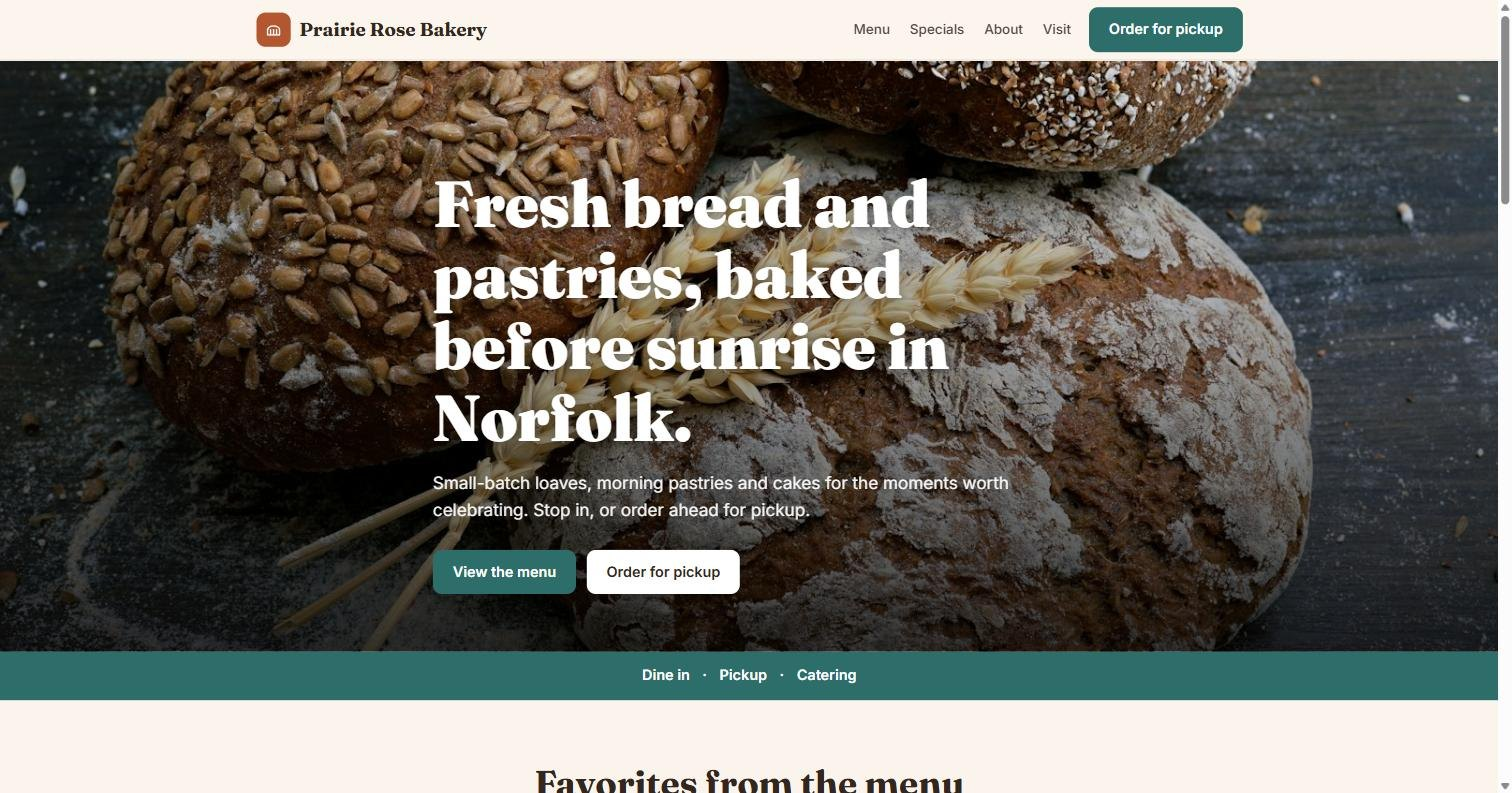
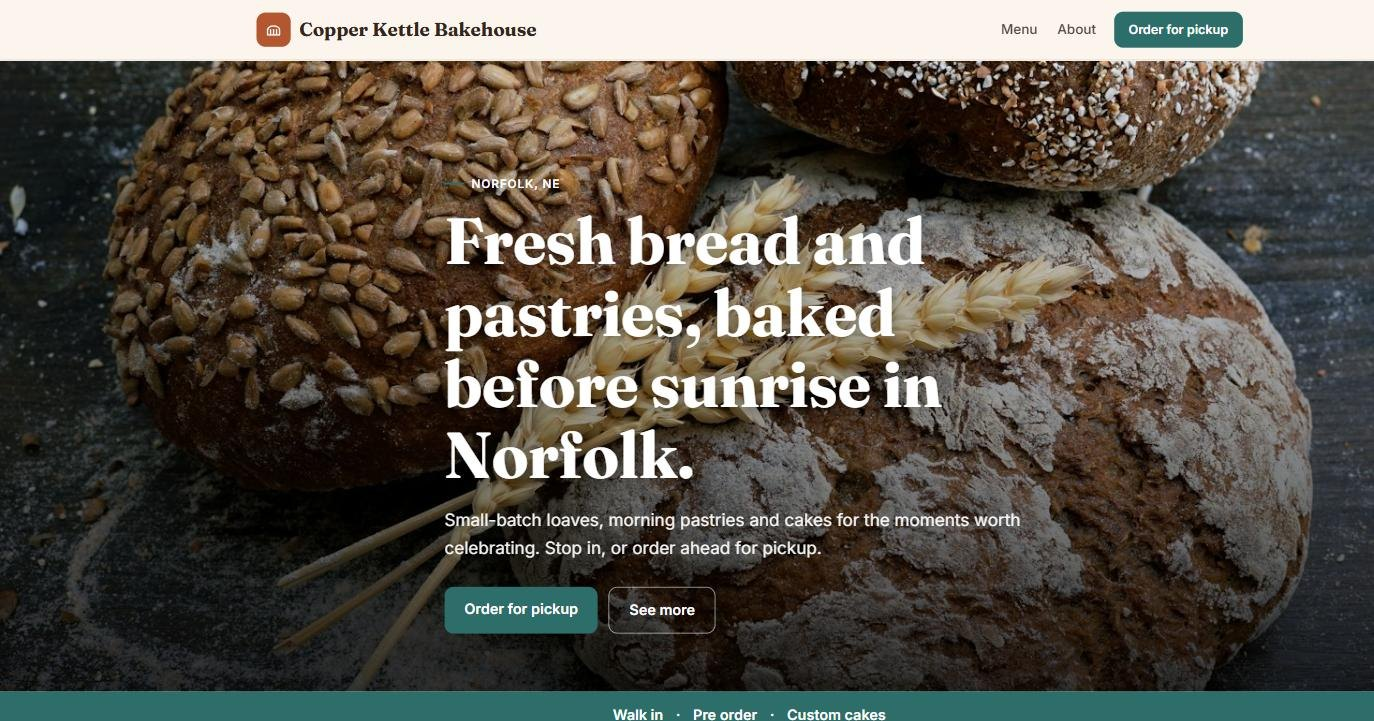
Site update Mon 09/07/2026 21:48:05.94

diff --git a/index.html b/index.html
@@ -40,8 +40,8 @@
  <div class="fine rv">Usually a preview by the next morning. If you don't want it, you owe nothing.</div>
  </div>
  <div class="stage" id="stage">
- <a class="shot" href="https://demos.mydevkits.com/sample-bakery/?demo=1"><img src="img/shot_bakery.jpg" alt="A sample site: Prairie Rose Bakery" fetchpriority="high"><span class="open">Open the site &rarr;</span></a>
- <div class="tag">Prairie Rose Bakery &middot; a sample site, built in a day &middot; click to explore it</div>
+ <a class="shot" href="https://demos.mydevkits.com/sample-bakery/?demo=1"><img src="img/shot_bakery.jpg" alt="A sample site: Copper Kettle Bakehouse" fetchpriority="high"><span class="open">Open the site &rarr;</span></a>
+ <div class="tag">Copper Kettle Bakehouse &middot; a sample site, built in a day &middot; click to explore it</div>
  </div>
 </header>
 
@@ -53,17 +53,17 @@
  <p class="lead" style="margin:18px auto 0;text-align:center">A layout designed for what you do, in your colors, with your photos. Not a template with your name typed in.</p>
  </div>
  <div class="track" aria-hidden="false">
- <a class="card" href="https://demos.mydevkits.com/sample-bakery/?demo=1"><div class="bar"><i></i><i></i><i></i><span>prairierosebakery.com</span></div><img src="img/shot_bakery.jpg" alt="Sample bakery site"><figcaption><b>Prairie Rose Bakery</b>Menu with prices, order for pickup, hours up top</figcaption><span class="open">Open the site &rarr;</span></a>
- <a class="card" href="https://demos.mydevkits.com/sample-salon/?demo=1"><div class="bar"><i></i><i></i><i></i><span>goldenhoursalon.com</span></div><img src="img/shot_salon.jpg" alt="Sample salon site"><figcaption><b>Golden Hour Salon</b>Service menu, book a visit, what to expect</figcaption><span class="open">Open the site &rarr;</span></a>
- <a class="card" href="https://demos.mydevkits.com/sample-grill/?demo=1"><div class="bar"><i></i><i></i><i></i><span>cottonwoodgrill.com</span></div><img src="img/shot_grill.jpg" alt="Sample grill site"><figcaption><b>Cottonwood Grill</b>Specials, catering, a private room, dine in or pickup</figcaption><span class="open">Open the site &rarr;</span></a>
- <a class="card" href="https://demos.mydevkits.com/sample-plumbing/?demo=1"><div class="bar"><i></i><i></i><i></i><span>tworiversplumbing.com</span></div><img src="img/shot_plumbing.jpg" alt="Sample plumbing site"><figcaption><b>Two Rivers Plumbing</b>Request an estimate right on the first screen</figcaption><span class="open">Open the site &rarr;</span></a>
- <a class="card" href="https://demos.mydevkits.com/sample-boutique/?demo=1"><div class="bar"><i></i><i></i><i></i><span>mainstreetmercantile.com</span></div><img src="img/shot_boutique.jpg" alt="Sample shop site"><figcaption><b>Main Street Mercantile</b>Shop online, this week's arrivals, visit the store</figcaption><span class="open">Open the site &rarr;</span></a>
+ <a class="card" href="https://demos.mydevkits.com/sample-bakery/?demo=1"><div class="bar"><i></i><i></i><i></i><span>copperkettlebakehouse.com</span></div><img src="img/shot_bakery.jpg" alt="Sample bakery site"><figcaption><b>Copper Kettle Bakehouse</b>Menu with prices, order for pickup, hours up top</figcaption><span class="open">Open the site &rarr;</span></a>
+ <a class="card" href="https://demos.mydevkits.com/sample-salon/?demo=1"><div class="bar"><i></i><i></i><i></i><span>tallgrasscuts.com</span></div><img src="img/shot_salon.jpg" alt="Sample salon site"><figcaption><b>Tallgrass Cuts</b>Service menu, book a visit, what to expect</figcaption><span class="open">Open the site &rarr;</span></a>
+ <a class="card" href="https://demos.mydevkits.com/sample-grill/?demo=1"><div class="bar"><i></i><i></i><i></i><span>twoforksgrill.com</span></div><img src="img/shot_grill.jpg" alt="Sample grill site"><figcaption><b>Two Forks Grill</b>Specials, catering, a private room, dine in or pickup</figcaption><span class="open">Open the site &rarr;</span></a>
+ <a class="card" href="https://demos.mydevkits.com/sample-plumbing/?demo=1"><div class="bar"><i></i><i></i><i></i><span>redwaterplumbing.com</span></div><img src="img/shot_plumbing.jpg" alt="Sample plumbing site"><figcaption><b>Redwater Plumbing</b>Request an estimate right on the first screen</figcaption><span class="open">Open the site &rarr;</span></a>
+ <a class="card" href="https://demos.mydevkits.com/sample-boutique/?demo=1"><div class="bar"><i></i><i></i><i></i><span>prairieandpinemercantile.com</span></div><img src="img/shot_boutique.jpg" alt="Sample shop site"><figcaption><b>Prairie &amp; Pine Mercantile</b>Shop online, this week's arrivals, visit the store</figcaption><span class="open">Open the site &rarr;</span></a>
  <!-- repeated for the loop -->
- <a class="card" href="https://demos.mydevkits.com/sample-bakery/?demo=1"><div class="bar"><i></i><i></i><i></i><span>prairierosebakery.com</span></div><img src="img/shot_bakery.jpg" alt=""><figcaption><b>Prairie Rose Bakery</b>Menu with prices, order for pickup, hours up top</figcaption><span class="open">Open the site &rarr;</span></a>
- <a class="card" href="https://demos.mydevkits.com/sample-salon/?demo=1"><div class="bar"><i></i><i></i><i></i><span>goldenhoursalon.com</span></div><img src="img/shot_salon.jpg" alt=""><figcaption><b>Golden Hour Salon</b>Service menu, book a visit, what to expect</figcaption><span class="open">Open the site &rarr;</span></a>
- <a class="card" href="https://demos.mydevkits.com/sample-grill/?demo=1"><div class="bar"><i></i><i></i><i></i><span>cottonwoodgrill.com</span></div><img src="img/shot_grill.jpg" alt=""><figcaption><b>Cottonwood Grill</b>Specials, catering, a private room, dine in or pickup</figcaption><span class="open">Open the site &rarr;</span></a>
- <a class="card" href="https://demos.mydevkits.com/sample-plumbing/?demo=1"><div class="bar"><i></i><i></i><i></i><span>tworiversplumbing.com</span></div><img src="img/shot_plumbing.jpg" alt=""><figcaption><b>Two Rivers Plumbing</b>Request an estimate right on the first screen</figcaption><span class="open">Open the site &rarr;</span></a>
- <a class="card" href="https://demos.mydevkits.com/sample-boutique/?demo=1"><div class="bar"><i></i><i></i><i></i><span>mainstreetmercantile.com</span></div><img src="img/shot_boutique.jpg" alt=""><figcaption><b>Main Street Mercantile</b>Shop online, this week's arrivals, visit the store</figcaption><span class="open">Open the site &rarr;</span></a>
+ <a class="card" href="https://demos.mydevkits.com/sample-bakery/?demo=1"><div class="bar"><i></i><i></i><i></i><span>copperkettlebakehouse.com</span></div><img src="img/shot_bakery.jpg" alt=""><figcaption><b>Copper Kettle Bakehouse</b>Menu with prices, order for pickup, hours up top</figcaption><span class="open">Open the site &rarr;</span></a>
+ <a class="card" href="https://demos.mydevkits.com/sample-salon/?demo=1"><div class="bar"><i></i><i></i><i></i><span>tallgrasscuts.com</span></div><img src="img/shot_salon.jpg" alt=""><figcaption><b>Tallgrass Cuts</b>Service menu, book a visit, what to expect</figcaption><span class="open">Open the site &rarr;</span></a>
+ <a class="card" href="https://demos.mydevkits.com/sample-grill/?demo=1"><div class="bar"><i></i><i></i><i></i><span>twoforksgrill.com</span></div><img src="img/shot_grill.jpg" alt=""><figcaption><b>Two Forks Grill</b>Specials, catering, a private room, dine in or pickup</figcaption><span class="open">Open the site &rarr;</span></a>
+ <a class="card" href="https://demos.mydevkits.com/sample-plumbing/?demo=1"><div class="bar"><i></i><i></i><i></i><span>redwaterplumbing.com</span></div><img src="img/shot_plumbing.jpg" alt=""><figcaption><b>Redwater Plumbing</b>Request an estimate right on the first screen</figcaption><span class="open">Open the site &rarr;</span></a>
+ <a class="card" href="https://demos.mydevkits.com/sample-boutique/?demo=1"><div class="bar"><i></i><i></i><i></i><span>prairieandpinemercantile.com</span></div><img src="img/shot_boutique.jpg" alt=""><figcaption><b>Prairie &amp; Pine Mercantile</b>Shop online, this week's arrivals, visit the store</figcaption><span class="open">Open the site &rarr;</span></a>
  </div>
  <p style="text-align:center;font-size:13.5px;color:var(--light-muted);margin-top:26px">Click any of them and look around; they are complete, working sites for made-up businesses, built with our tools. Yours gets your name, your photos, your colors.</p>
 </section>
@@ -80,7 +80,7 @@
  <div class="phone"><div class="island"></div><div class="screen">
  <iframe src="https://demos.mydevkits.com/sample-bakery/?v=2&embed=1" title="A sample site on a phone" loading="lazy" tabindex="-1"></iframe>
  <div class="app" data-app="booth">
- <h4>Photo booth</h4><div class="sm">Prairie Rose Bakery</div>
+ <h4>Photo booth</h4><div class="sm">Copper Kettle Bakehouse</div>
  <div class="tile"><span>📷</span><b>Take a photo</b><span class="pill">from the phone</span></div>
  <div class="ph"></div>
  <div class="tile"><span>✏</span><span style="color:var(--light-ink)">Cinnamon rolls, out at 7</span></div>
@@ -88,7 +88,7 @@
  <div class="sm" style="margin-top:12px;text-align:center">Live in about a minute. Newest first, with the date.</div>
  </div>
  <div class="app" data-app="products">
- <h4>Products</h4><div class="sm">Main Street Mercantile</div>
+ <h4>Products</h4><div class="sm">Prairie &amp; Pine Mercantile</div>
  <div class="tile"><span>📷</span><b>Take a photo</b><span class="pill">from the phone</span></div>
  <div class="tile"><span>🪑</span><div><b>Oak rocking chair</b><br><span>$45 · one of a kind</span></div><span class="pill">1 left</span></div>
  <div class="tile"><span>🧣</span><div><b>Wool scarf</b><br><span>$28</span></div><span class="pill dark">Sold</span></div>

diff --git a/see-your-site.html b/see-your-site.html
@@ -63,17 +63,17 @@
  <p class="lead" style="margin:18px auto 0;text-align:center">A layout designed for what you do, in your colors, with your photos. Not a template with your name typed in.</p>
  </div>
  <div class="track" aria-hidden="false">
- <a class="card" href="https://demos.mydevkits.com/sample-bakery/?demo=1"><div class="bar"><i></i><i></i><i></i><span>prairierosebakery.com</span></div><img src="img/shot_bakery.jpg" alt="Sample bakery site"><figcaption><b>Prairie Rose Bakery</b>Menu with prices, order for pickup, hours up top</figcaption><span class="open">Open the site &rarr;</span></a>
- <a class="card" href="https://demos.mydevkits.com/sample-salon/?demo=1"><div class="bar"><i></i><i></i><i></i><span>goldenhoursalon.com</span></div><img src="img/shot_salon.jpg" alt="Sample salon site"><figcaption><b>Golden Hour Salon</b>Service menu, book a visit, what to expect</figcaption><span class="open">Open the site &rarr;</span></a>
- <a class="card" href="https://demos.mydevkits.com/sample-grill/?demo=1"><div class="bar"><i></i><i></i><i></i><span>cottonwoodgrill.com</span></div><img src="img/shot_grill.jpg" alt="Sample grill site"><figcaption><b>Cottonwood Grill</b>Specials, catering, a private room, dine in or pickup</figcaption><span class="open">Open the site &rarr;</span></a>
- <a class="card" href="https://demos.mydevkits.com/sample-plumbing/?demo=1"><div class="bar"><i></i><i></i><i></i><span>tworiversplumbing.com</span></div><img src="img/shot_plumbing.jpg" alt="Sample plumbing site"><figcaption><b>Two Rivers Plumbing</b>Request an estimate right on the first screen</figcaption><span class="open">Open the site &rarr;</span></a>
- <a class="card" href="https://demos.mydevkits.com/sample-boutique/?demo=1"><div class="bar"><i></i><i></i><i></i><span>mainstreetmercantile.com</span></div><img src="img/shot_boutique.jpg" alt="Sample shop site"><figcaption><b>Main Street Mercantile</b>Shop online, this week's arrivals, visit the store</figcaption><span class="open">Open the site &rarr;</span></a>
+ <a class="card" href="https://demos.mydevkits.com/sample-bakery/?demo=1"><div class="bar"><i></i><i></i><i></i><span>copperkettlebakehouse.com</span></div><img src="img/shot_bakery.jpg" alt="Sample bakery site"><figcaption><b>Copper Kettle Bakehouse</b>Menu with prices, order for pickup, hours up top</figcaption><span class="open">Open the site &rarr;</span></a>
+ <a class="card" href="https://demos.mydevkits.com/sample-salon/?demo=1"><div class="bar"><i></i><i></i><i></i><span>tallgrasscuts.com</span></div><img src="img/shot_salon.jpg" alt="Sample salon site"><figcaption><b>Tallgrass Cuts</b>Service menu, book a visit, what to expect</figcaption><span class="open">Open the site &rarr;</span></a>
+ <a class="card" href="https://demos.mydevkits.com/sample-grill/?demo=1"><div class="bar"><i></i><i></i><i></i><span>twoforksgrill.com</span></div><img src="img/shot_grill.jpg" alt="Sample grill site"><figcaption><b>Two Forks Grill</b>Specials, catering, a private room, dine in or pickup</figcaption><span class="open">Open the site &rarr;</span></a>
+ <a class="card" href="https://demos.mydevkits.com/sample-plumbing/?demo=1"><div class="bar"><i></i><i></i><i></i><span>redwaterplumbing.com</span></div><img src="img/shot_plumbing.jpg" alt="Sample plumbing site"><figcaption><b>Redwater Plumbing</b>Request an estimate right on the first screen</figcaption><span class="open">Open the site &rarr;</span></a>
+ <a class="card" href="https://demos.mydevkits.com/sample-boutique/?demo=1"><div class="bar"><i></i><i></i><i></i><span>prairieandpinemercantile.com</span></div><img src="img/shot_boutique.jpg" alt="Sample shop site"><figcaption><b>Prairie &amp; Pine Mercantile</b>Shop online, this week's arrivals, visit the store</figcaption><span class="open">Open the site &rarr;</span></a>
  <!-- repeated for the loop -->
- <a class="card" href="https://demos.mydevkits.com/sample-bakery/?demo=1"><div class="bar"><i></i><i></i><i></i><span>prairierosebakery.com</span></div><img src="img/shot_bakery.jpg" alt=""><figcaption><b>Prairie Rose Bakery</b>Menu with prices, order for pickup, hours up top</figcaption><span class="open">Open the site &rarr;</span></a>
- <a class="card" href="https://demos.mydevkits.com/sample-salon/?demo=1"><div class="bar"><i></i><i></i><i></i><span>goldenhoursalon.com</span></div><img src="img/shot_salon.jpg" alt=""><figcaption><b>Golden Hour Salon</b>Service menu, book a visit, what to expect</figcaption><span class="open">Open the site &rarr;</span></a>
- <a class="card" href="https://demos.mydevkits.com/sample-grill/?demo=1"><div class="bar"><i></i><i></i><i></i><span>cottonwoodgrill.com</span></div><img src="img/shot_grill.jpg" alt=""><figcaption><b>Cottonwood Grill</b>Specials, catering, a private room, dine in or pickup</figcaption><span class="open">Open the site &rarr;</span></a>
- <a class="card" href="https://demos.mydevkits.com/sample-plumbing/?demo=1"><div class="bar"><i></i><i></i><i></i><span>tworiversplumbing.com</span></div><img src="img/shot_plumbing.jpg" alt=""><figcaption><b>Two Rivers Plumbing</b>Request an estimate right on the first screen</figcaption><span class="open">Open the site &rarr;</span></a>
- <a class="card" href="https://demos.mydevkits.com/sample-boutique/?demo=1"><div class="bar"><i></i><i></i><i></i><span>mainstreetmercantile.com</span></div><img src="img/shot_boutique.jpg" alt=""><figcaption><b>Main Street Mercantile</b>Shop online, this week's arrivals, visit the store</figcaption><span class="open">Open the site &rarr;</span></a>
+ <a class="card" href="https://demos.mydevkits.com/sample-bakery/?demo=1"><div class="bar"><i></i><i></i><i></i><span>copperkettlebakehouse.com</span></div><img src="img/shot_bakery.jpg" alt=""><figcaption><b>Copper Kettle Bakehouse</b>Menu with prices, order for pickup, hours up top</figcaption><span class="open">Open the site &rarr;</span></a>
+ <a class="card" href="https://demos.mydevkits.com/sample-salon/?demo=1"><div class="bar"><i></i><i></i><i></i><span>tallgrasscuts.com</span></div><img src="img/shot_salon.jpg" alt=""><figcaption><b>Tallgrass Cuts</b>Service menu, book a visit, what to expect</figcaption><span class="open">Open the site &rarr;</span></a>
+ <a class="card" href="https://demos.mydevkits.com/sample-grill/?demo=1"><div class="bar"><i></i><i></i><i></i><span>twoforksgrill.com</span></div><img src="img/shot_grill.jpg" alt=""><figcaption><b>Two Forks Grill</b>Specials, catering, a private room, dine in or pickup</figcaption><span class="open">Open the site &rarr;</span></a>
+ <a class="card" href="https://demos.mydevkits.com/sample-plumbing/?demo=1"><div class="bar"><i></i><i></i><i></i><span>redwaterplumbing.com</span></div><img src="img/shot_plumbing.jpg" alt=""><figcaption><b>Redwater Plumbing</b>Request an estimate right on the first screen</figcaption><span class="open">Open the site &rarr;</span></a>
+ <a class="card" href="https://demos.mydevkits.com/sample-boutique/?demo=1"><div class="bar"><i></i><i></i><i></i><span>prairieandpinemercantile.com</span></div><img src="img/shot_boutique.jpg" alt=""><figcaption><b>Prairie &amp; Pine Mercantile</b>Shop online, this week's arrivals, visit the store</figcaption><span class="open">Open the site &rarr;</span></a>
  </div>
  <p style="text-align:center;font-size:13.5px;color:var(--light-muted);margin-top:26px">Click any of them and look around; they are complete, working sites for made-up businesses, built with our tools. Yours gets your name, your photos, your colors.</p>
 </section>
@@ -90,7 +90,7 @@
  <div class="phone"><div class="island"></div><div class="screen">
  <iframe src="https://demos.mydevkits.com/sample-bakery/?v=2&embed=1" title="A sample site on a phone" loading="lazy" tabindex="-1"></iframe>
  <div class="app" data-app="booth">
- <h4>Photo booth</h4><div class="sm">Prairie Rose Bakery</div>
+ <h4>Photo booth</h4><div class="sm">Copper Kettle Bakehouse</div>
  <div class="tile"><span>📷</span><b>Take a photo</b><span class="pill">from the phone</span></div>
  <div class="ph"></div>
  <div class="tile"><span>✏</span><span style="color:var(--light-ink)">Cinnamon rolls, out at 7</span></div>
@@ -98,7 +98,7 @@
  <div class="sm" style="margin-top:12px;text-align:center">Live in about a minute. Newest first, with the date.</div>
  </div>
  <div class="app" data-app="products">
- <h4>Products</h4><div class="sm">Main Street Mercantile</div>
+ <h4>Products</h4><div class="sm">Prairie &amp; Pine Mercantile</div>
  <div class="tile"><span>📷</span><b>Take a photo</b><span class="pill">from the phone</span></div>
  <div class="tile"><span>🪑</span><div><b>Oak rocking chair</b><br><span>$45 · one of a kind</span></div><span class="pill">1 left</span></div>
  <div class="tile"><span>🧣</span><div><b>Wool scarf</b><br><span>$28</span></div><span class="pill dark">Sold</span></div>
